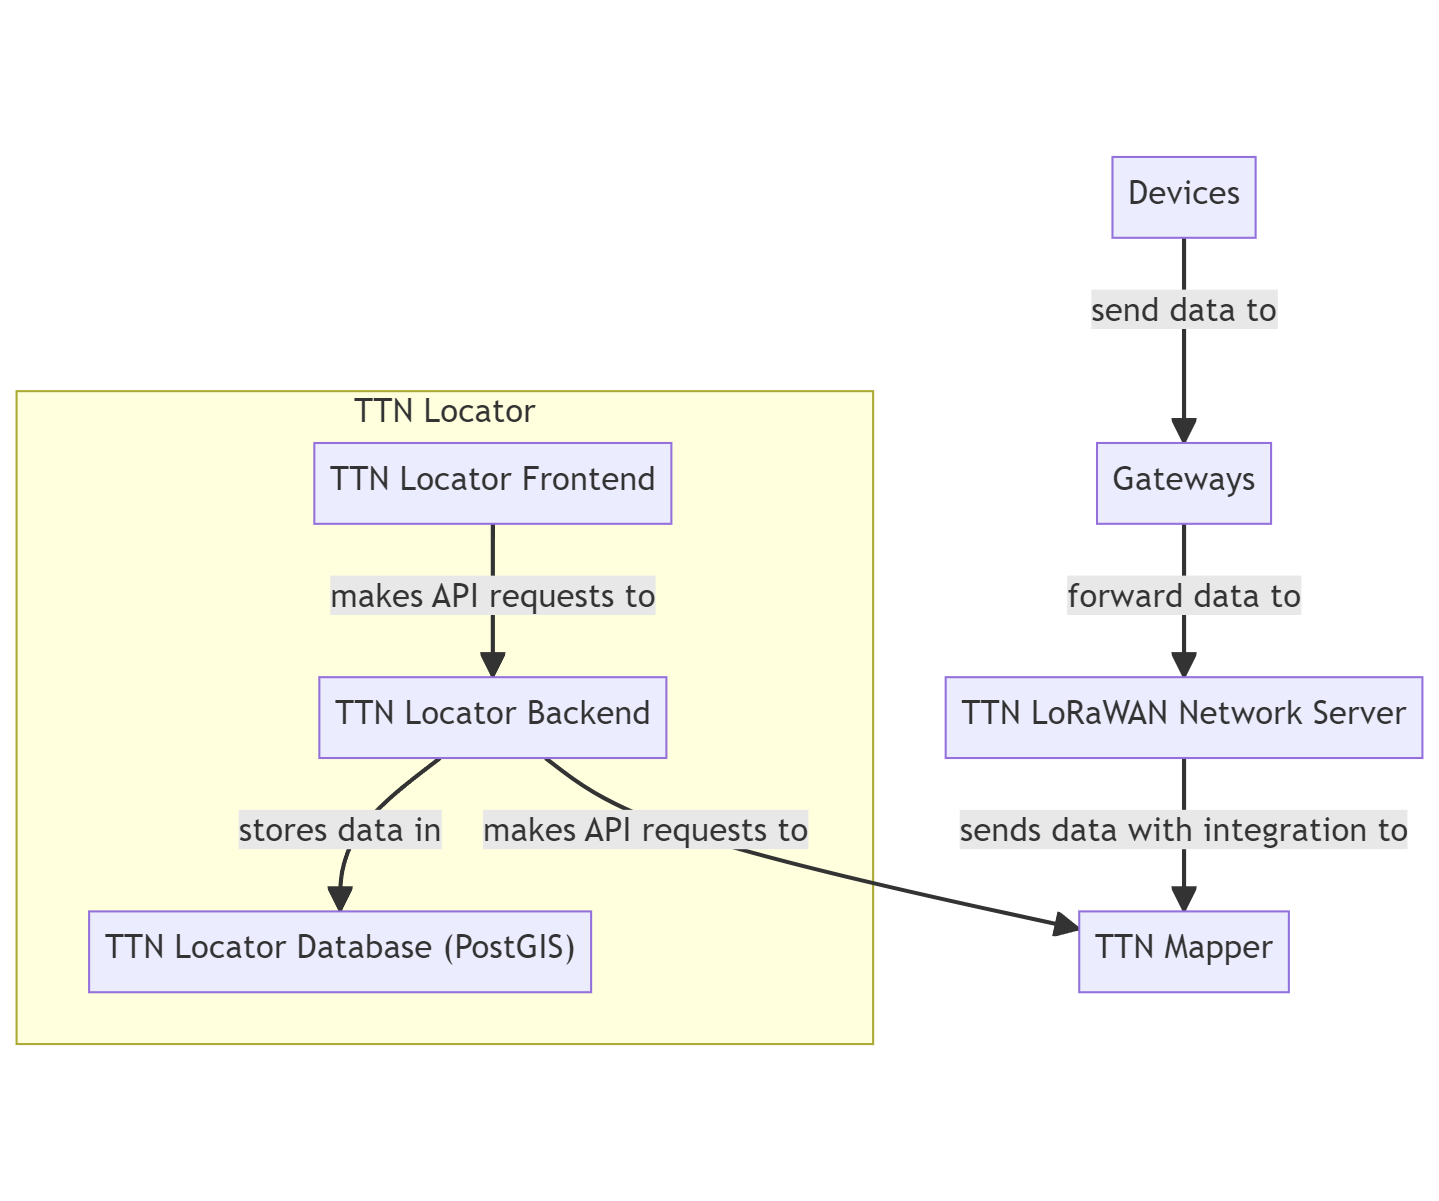
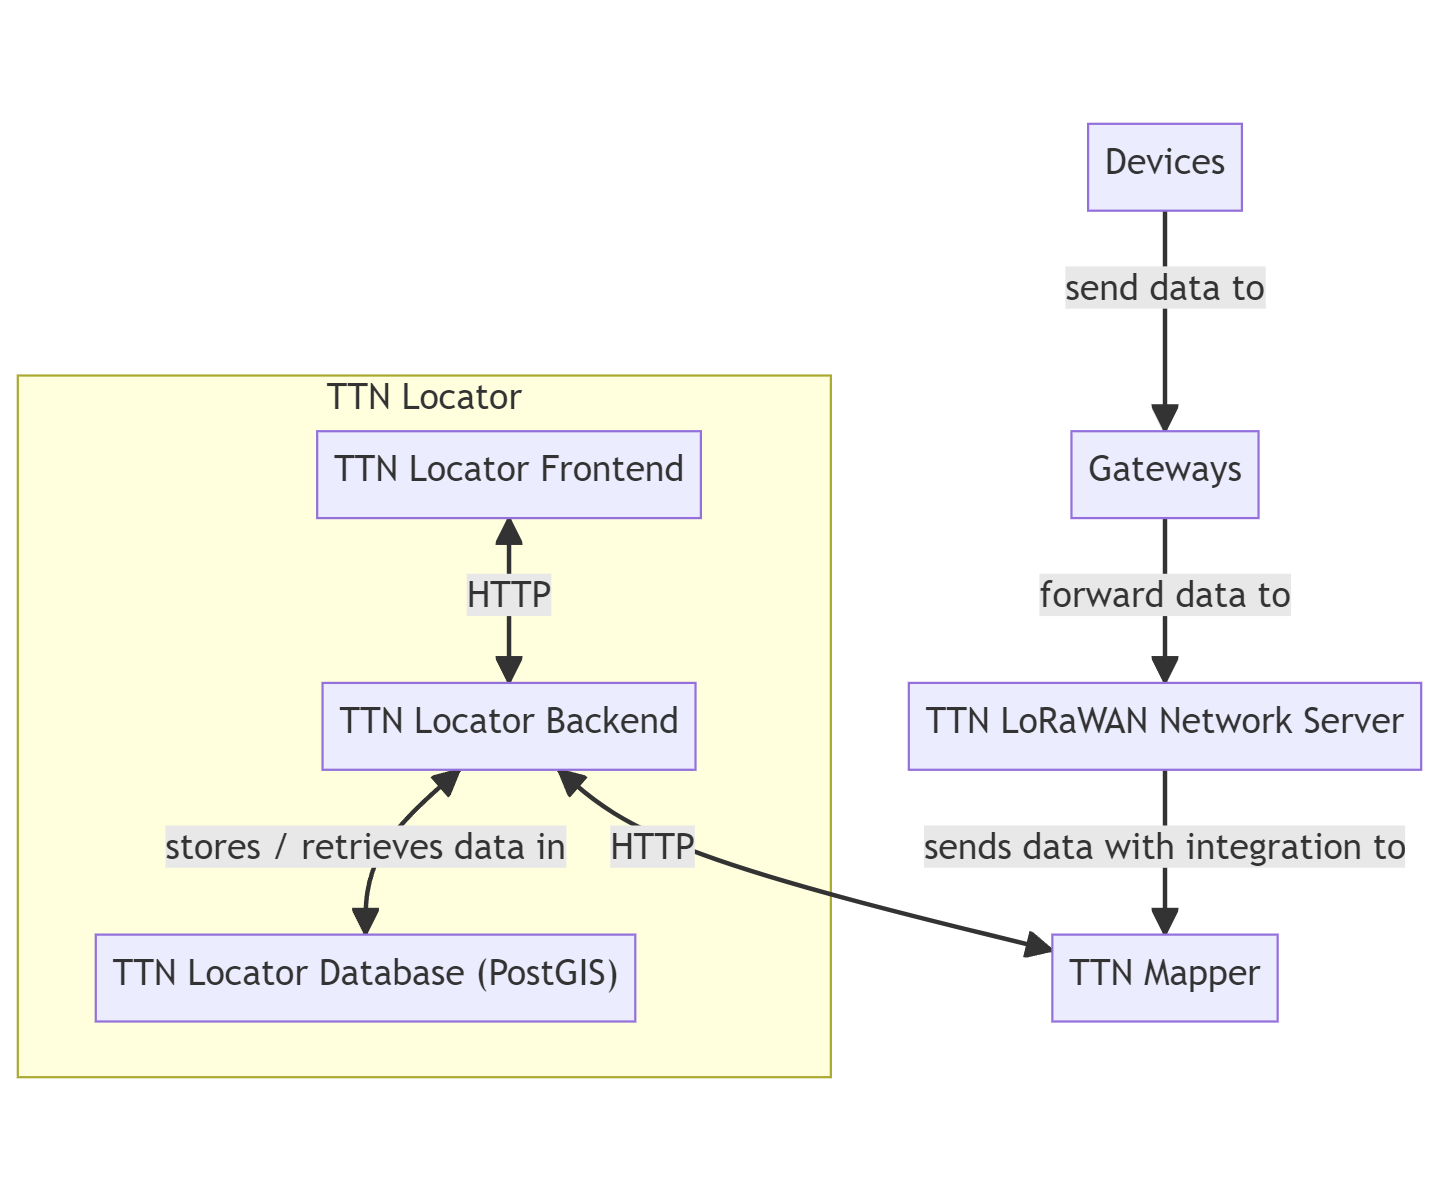
update program structure diagram

Changed region(s): [[0.0, 0.1232, 1.0, 0.9242]]

diff --git a/diagrams/program_structure/program_structure.md b/diagrams/program_structure/program_structure.md
@@ -6,10 +6,10 @@ title: TTN Locator Program structure
 ```mermaid
 flowchart TD
     subgraph TTNL [TTN Locator]
-    TTNLF[TTN Locator Frontend]-->|makes API requests to|TTNLB[TTN Locator Backend]
-    TTNLB-->|stores data in|TTNLDB["TTN Locator Database (PostGIS)"]
+    TTNLF[TTN Locator Frontend]<-->|HTTP|TTNLB[TTN Locator Backend]
+    TTNLB<-->|stores / retrieves data in|TTNLDB["TTN Locator Database (PostGIS)"]
     end
-    TTNLB-->|makes API requests to|TTNM
+    TTNLB<-->|HTTP|TTNM
     DVs[Devices]-->|send data to|GWs
     GWs[Gateways]-->|forward data to|TTN-LNS
     TTN-LNS[TTN LoRaWAN Network Server]-->|sends data with integration to|TTNM[TTN Mapper]
